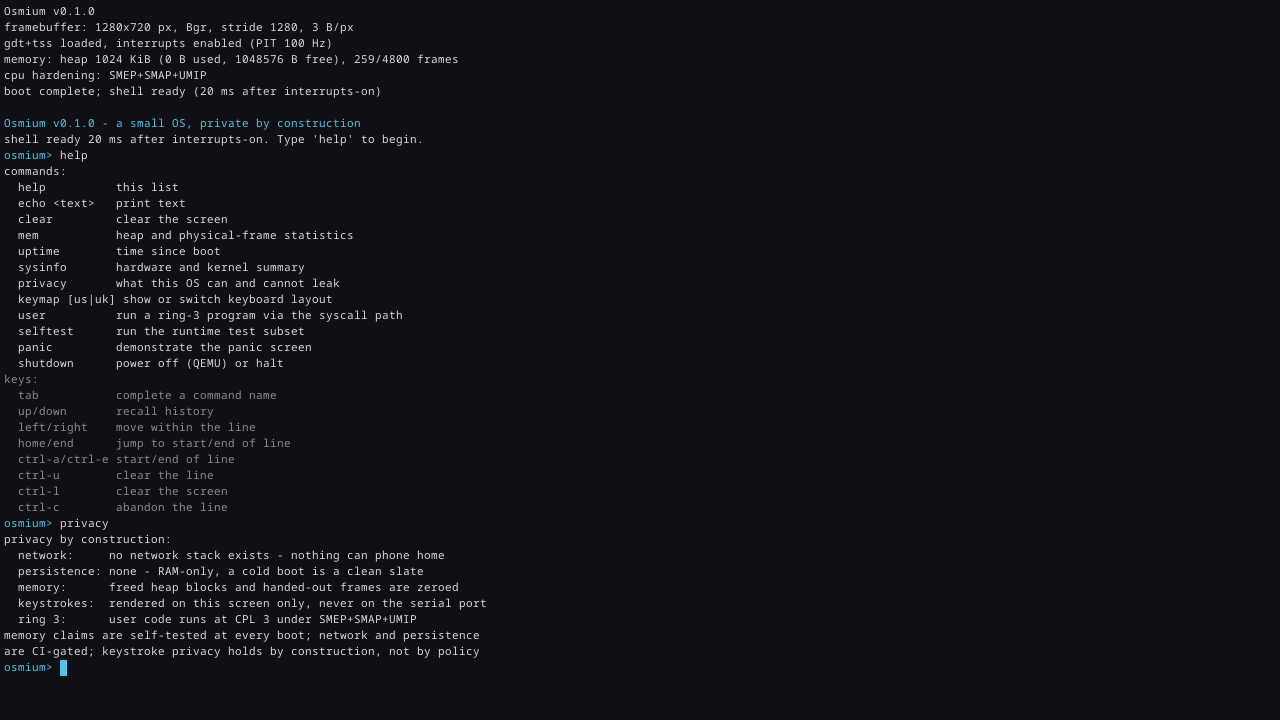
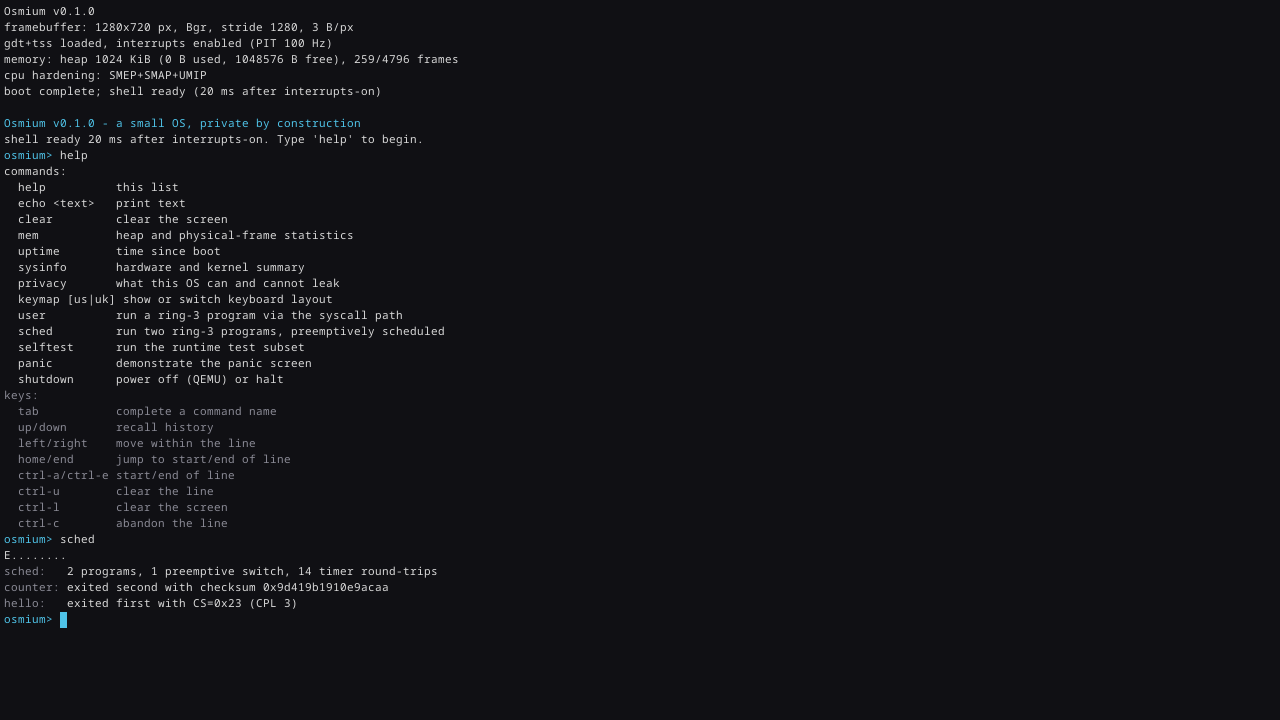
Refresh the README screenshot from a real M8 boot; pluralise the sched report
The screenshot now shows the preemption demo live: help with the sched
command, then sched's run - hello's byte landing inside counter's compute
window, '1 preemptive switch, 14 timer round-trips', counter's checksum,
and hello exiting first at CPL 3. Captured under -cpu max so the hardening
line reads SMEP+SMAP+UMIP, matching what CI boots. The sched report now
pluralises its counts (the previous screenshot read '1 preemptive
switches').

Changed region(s): [[0.0, 0.4583, 0.375, 0.9472], [0.3125, 0.4583, 0.3438, 0.4889]]

diff --git a/kernel/src/shell.rs b/kernel/src/shell.rs
@@ -440,11 +440,15 @@ fn sched_command() {
         Ok(report) => {
             // A SYS_WRITE ends mid-line; drop to a fresh one before the report.
             println_con("");
+            let plural = |n: u64| if n == 1 { "" } else { "s" };
             field(
                 "sched:   ",
                 &format!(
-                    "2 programs, {} preemptive switches, {} timer round-trips",
-                    report.preemptive_switches, report.ring3_round_trips
+                    "2 programs, {} preemptive switch{}, {} timer round-trip{}",
+                    report.preemptive_switches,
+                    plural(report.preemptive_switches),
+                    report.ring3_round_trips,
+                    plural(report.ring3_round_trips)
                 ),
             );
             let order = |seq: u64| if seq == 0 { "first" } else { "second" };

diff --git a/README.md b/README.md
@@ -5,7 +5,7 @@ construction, light by measurement**.
 
 [![CI](https://github.com/Leo-Y-Zhang/Osmium/actions/workflows/ci.yml/badge.svg)](https://github.com/Leo-Y-Zhang/Osmium/actions/workflows/ci.yml)
 
-![The Osmium shell answering `help` and `privacy`](docs/screenshot.png)
+![The Osmium shell answering `help`, then `sched` showing two ring-3 programs preemptively scheduled — the program launched second exits first](docs/screenshot.png)
 
 Osmium boots from BIOS or UEFI, renders its own glyph console on the framebuffer,
 takes keyboard input through an async executor, drops you at a shell, and runs
